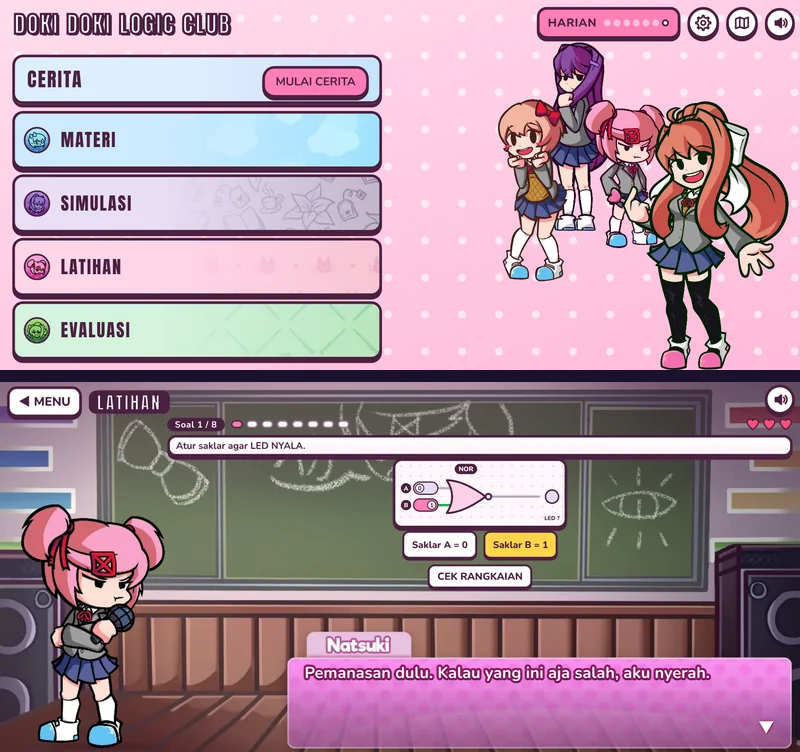
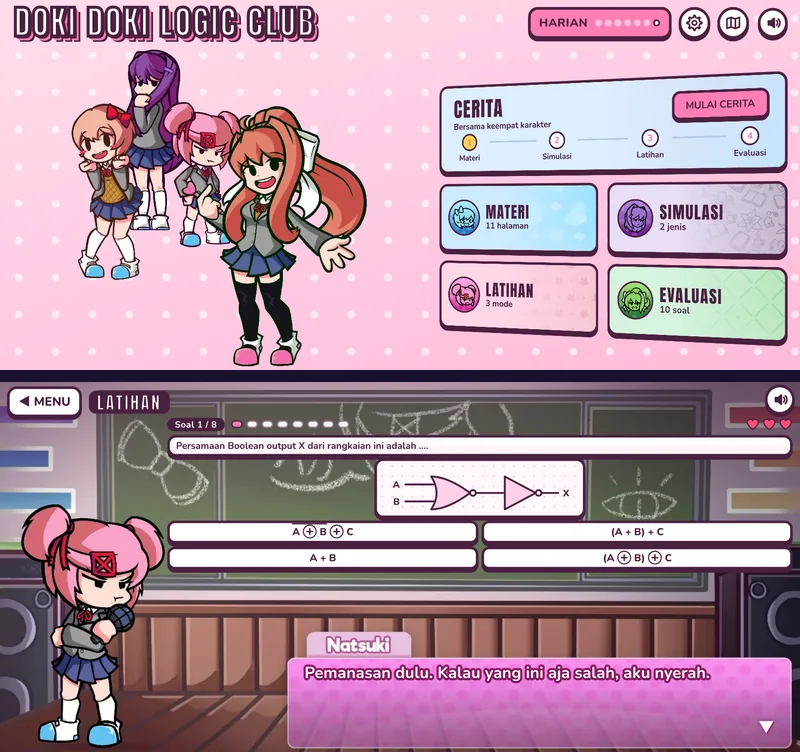
update menu lagii

diff --git a/css/style.css b/css/style.css
@@ -98,16 +98,10 @@ body.m{--pz:.72}
 .m #mute{font-size:15px;right:6px;top:6px}
 /* layar awal */
 .m #start{padding-top:64px}
-.m #start h1,.m .mtitle h1{font-size:44px;-webkit-text-stroke:2px var(--ink);text-shadow:3px 3px 0 var(--ink)}
-
-/* menu utama */
-.m .mtitle{left:16px;top:10px}.m .mtitle h2{margin:4px 0 0}
-.m .mlist{left:16px;width:min(420px,calc(100% - 380px))}
-.m .mbtn{border-radius:12px}
+.m #start h1{font-size:44px;-webkit-text-stroke:2px var(--ink);text-shadow:3px 3px 0 var(--ink)}
 
 
-.m .mchar{right:0;top:0;bottom:0;width:calc(100% - 470px)}
-.m .mchar canvas{width:100%;height:100%;object-fit:contain;object-position:right bottom}
+
 /* kerangka scene: bar atas, karakter, panel, dialog */
 .m .top{left:8px;top:5px;gap:8px}.m .top b{-webkit-text-stroke:1.5px var(--ink);text-shadow:2px 2px 0 var(--ink)}.m .hintc{display:none}
 .m .cw{left:0;bottom:4px;transform:scale(var(--cs));transform-origin:0 100%}
@@ -279,8 +273,6 @@ html{scrollbar-color:var(--pink) transparent}
 .ngo{position:absolute;right:26px;bottom:232px;z-index:7;animation:nudge 1.6s ease-in-out 4}
 @media (prefers-reduced-motion:reduce){.contstory,.ngo{animation:none}}
 /* mobile / Android: tata ulang, bukan sekadar mengecilkan */
-.m .mtitle h1 br{display:none}
-.m .mlist{top:62px;gap:5px}.m .mbtn{padding:2px 12px 2px 36px}.m .mbtn b{font-size:19px;letter-spacing:1.5px}.m .mbtn i{top:8px;left:11px;font-size:15px}
 
 .m .pt{left:3px;top:auto;bottom:4px;width:182px;height:240px;border-width:3px;border-radius:14px;box-shadow:3px 3px 0 var(--ink)}
 .m .pt::after{border-radius:11px;box-shadow:inset 0 0 0 2px #ffffffb0}.m .pn{font-size:16px;left:6px;top:6px;padding:2px 9px 1px}
@@ -322,7 +314,7 @@ body:not(.m) .cw[data-k=sayori]{bottom:10px}
 
 .m .seg .btn{padding:9px 8px;font-size:14px}
 .m .opt{padding:11px 8px}
-.m .mbtn span{font-size:13px}.m .srow small{font-size:13px}.m .qh{font-size:14px}.m .credlink{font-size:13px;padding:6px 12px}
+.m .srow small{font-size:13px}.m .qh{font-size:14px}.m .credlink{font-size:13px;padding:6px 12px}
 .m .nav .btn{min-height:38px}
 
 .m .top .btn.sm{padding:5px 10px;min-height:0}
@@ -388,21 +380,6 @@ body:not(.m) .cw[data-k=sayori]{bottom:10px}
 .mbtn:focus-visible{outline:4px solid var(--blue);outline-offset:3px}
 .mchar{right:23px}.mchar canvas{height:640px}
 .setbtn{right:74px;top:22px}
-/* menu mobile: kartu ringkas satu kolom, grup karakter di tengah bawah */
-.m .mtitle{left:16px;top:52px}.m .mtitle h1{font-size:26px;margin-top:6px;-webkit-text-stroke:1.5px var(--ink);text-shadow:2px 2px 0 var(--ink)}.m .mtitle h2{font-size:13px;margin-top:6px}
-.m .setbtn{left:12px;right:auto;top:8px;font-size:13px}
-.m .mlist{left:14px;right:14px;width:auto;top:118px}
-.m .mstory{margin-bottom:8px}.m .mstory .mbtn{height:112px;padding:10px 14px}.m .mstory .mbtn b{font-size:22px}.m .mstory .mbtn .sub{font-size:11px}
-.m .pbtn{right:12px;top:10px;font-size:12px;padding:6px 12px;border-width:3px;box-shadow:0 3px 0 var(--ink)}.m .mstory.cont .pbtn{right:100px}
-.m .mre{right:16px;bottom:auto;top:13px;font-size:12px;height:36px;padding:0 10px;min-height:0;border-width:3px;box-shadow:0 3px 0 var(--ink)}
-.m .steps{left:14px;right:14px;bottom:6px}.m .st{font-size:9px;min-width:44px}.m .st i{width:22px;height:22px;font-size:11px;border-width:2px}.m .ln{margin-top:10px}
-.m .mgrid{grid-template-columns:1fr;gap:6px}.m .mgrid .mbtn{height:auto;min-height:66px;padding:6px 12px 6px 62px}
-.m .mgrid .mbtn b{font-size:20px;letter-spacing:1.5px}.m .mbtn .sub{font-size:11px}.m .av{left:10px;top:7px;width:42px;height:42px;border-width:2px}
-.m .mbtn{border-width:3px;box-shadow:0 4px 0 var(--ink)}
-.m .mbtn.sel,.m .mbtn:hover{transform:translateY(-2px)}
-.m:not(.p) .mgrid{grid-template-columns:1fr}.m:not(.p) .mstory .mbtn{height:56px}.m:not(.p) .steps,.m:not(.p) .mbtn .sub{display:none}
-.m:not(.p) .mgrid .mbtn{height:38px;padding:3px 10px 3px 52px}.m:not(.p) .av{width:30px;height:30px;top:3px}.m:not(.p) .mlist{top:62px;width:min(420px,calc(100% - 380px));right:auto}
-.m:not(.p) .mtitle{top:8px}.m:not(.p) .setbtn{left:auto;right:46px}
 /* kerangka scene */
 .top b{background:var(--ink);padding:3px 14px 1px;border-radius:10px;-webkit-text-stroke:0;text-shadow:none;letter-spacing:2px;font-size:32px;line-height:1.2}
 .m .top b{font-size:20px;padding:2px 9px 0;border-radius:8px}
@@ -710,7 +687,6 @@ body.m{--cs:.6}
 
 /* v13 polish */
 .m:not(.p) .sim{flex-wrap:nowrap}.m:not(.p) .sim .card{flex:1 1 0;min-width:0}
-.m:not(.p) .mgrid .mbtn,.m:not(.p) .mstory .mbtn{justify-content:center}
 .btn:disabled,.nav button:disabled{cursor:not-allowed}
 
 /* v14 animasi: transisi layar lebih cepat, LED menyala, tombol responsif */
@@ -839,7 +815,7 @@ body.m{--cs:.6}
 
 /* v20: audit desain. Teks HP >= 11px, area tap >= 44px, gerak dekoratif dibatasi */
 .m .xcnt{font-size:11px}.m .xlab{font-size:11px}.m .xmsg{font-size:12px}.m .top #xch{font-size:12px}.m .xpi b{font-size:11px}
-.m:not(.p) .xmsg{font-size:11px}.m:not(.p) .xpi b{font-size:11px}.m .tip,.m .mbtn .sub,.m .chip{font-size:12px}
+.m:not(.p) .xmsg{font-size:11px}.m:not(.p) .xpi b{font-size:11px}.m .tip,.m .chip{font-size:12px}
 .cell,.xlx,.setcard input[type=range]{position:relative}
 .cell::after,.xlx::after{content:"";position:absolute;inset:-8px -4px}
 .m .setcard input[type=range]{margin:14px 0}
@@ -854,8 +830,7 @@ body.m{--cs:.6}
 .m .heart{width:22px;height:22px}
 .mre{transition:transform .16s var(--ease),box-shadow .16s var(--ease),background-color .16s}
 .mstory:has(.mbtn:hover,.mbtn.sel) .mre{transform:translateY(-4px);box-shadow:0 8px 0 var(--ink)}
-.m .mstory:has(.mbtn:hover,.mbtn.sel) .mre{transform:translateY(-2px);box-shadow:0 5px 0 var(--ink)}
-@media (prefers-reduced-motion:reduce){.lives.hit{animation:none}.mstory:has(.mbtn:hover,.mbtn.sel) .mre,.m .mstory:has(.mbtn:hover,.mbtn.sel) .mre{transform:none;box-shadow:0 4px 0 var(--ink)}}
+@media (prefers-reduced-motion:reduce){.lives.hit{animation:none}.mstory:has(.mbtn:hover,.mbtn.sel) .mre{transform:none;box-shadow:0 4px 0 var(--ink)}}
 .m:not(.p) .fcard.p1::after,.m:not(.p) .fcard.p2::after{transform:translate(4px,4px) rotate(.4deg)}.m:not(.p) .fcard.p2::before{transform:translate(-3px,6px) rotate(-.4deg)}
 /* kartu pendek (HP mendatar: panggung hanya 420px): kecilkan isi supaya tidak terpotong */
 .fcard{container-type:size}
@@ -869,7 +844,7 @@ body.m{--cs:.6}
 .m:not(.p) .xtools{flex-wrap:wrap}
 .m:not(.p) .xtools .btn,.m:not(.p) .n3 .xtools .btn{flex:1 1 44%;font-size:10px;letter-spacing:0;padding:3px 2px}
 .m:not(.p) .xtools .btn:last-child{flex-basis:100%}
-.m .chip,.m .tip,.m .xlab,.m .xcnt,.m .xpi b,.m .mbtn .sub,.m .sub,.m .tmr{font-size:13px}
+.m .chip,.m .tip,.m .xlab,.m .xcnt,.m .xpi b,.m .sub,.m .tmr{font-size:13px}
 .m:not(.p) .xpi:not(.xin) b{font-size:11px}
 .m .xpi.xin b{font-size:11px}
 .m:not(.p) .xin b{font-size:10px}
@@ -1185,9 +1160,6 @@ body:not(.m) .mtitle h1{margin-top:-2px}
 body:not(.m) .mchar canvas{height:615px;display:block;margin:0 auto}
 body:not(.m) .mgrid .mbtn{justify-content:center}
 
-/* v46b: rapikan menu utama di HP */
-.m:not(.p) .av{top:50%;translate:0 -50%}
-.m:not(.p) .mchar{top:48px}
 
 /* v48: menu utama. Header satu garis kanan (x=1240 di desktop), Harian beraksen dengan 7 hari terakhir,
    Pengaturan dan Peta berupa ikon, judul lebih besar, kartu dua tingkat teks (judul + satu baris) */
@@ -1212,8 +1184,8 @@ body:not(.m) #stage:has(#menu.on) #mute{right:40px;top:25px}
 .m .hdots{gap:3px}.m .hdots i{width:8px;height:8px}.m .hdots i.now{border-width:2px}
 .m .mtools .ibtn{width:36px;height:36px;padding:0;border-width:3px}.m .ibtn svg{width:20px;height:20px}
 .m .setbtn{top:8px}
-.m:not(.p) #stage:has(#menu.on) #mute{top:9px}
-.m:not(.p) .setbtn{right:48px}
+.m:not(.p) #stage:has(#menu.on) #mute{right:14px;top:9px}
+.m:not(.p) .setbtn{right:58px}
 
 /* v49: karakter menu desktop digeser sekitar 2% ke kanan (26 px) dan 1% ke atas (7 px) dari panggung 1280x720 */
 body:not(.m) .mchar{left:26px;bottom:7px}
@@ -1333,3 +1305,34 @@ body:not(.m) .mchar{left:26px;bottom:7px}
 #fade.soft,#fade.soft.on{clip-path:none;transition:opacity .42s cubic-bezier(.4,0,.2,1)}
 #fade.soft:not(.on){transition-duration:.55s}
 @media (prefers-reduced-motion:reduce){#fade.soft,#fade.soft.on,#fade.soft:not(.on){transition:opacity .01ms}}
+
+/* v62: menu utama HP = tata letak PC. Judul kiri atas, karakter di kiri, kartu Cerita (dengan langkah) dan empat kartu mode di kanan, dimiringkan ke dalam seperti v45.
+   Ukuran px di bawah ini adalah ukuran tampil pada kanvas logis HP (tinggi 420). Daftar digambar 4x lebih besar lalu diperkecil (zoom + scale),
+   alasan sama dengan v48: tekstur perspektif tidak tajam di layar rapat piksel (HP 2x sampai 3x). Daftar selebar 50% layar, tepi kanan 14px sejajar tombol suara.
+   Tepi kiri daftar tampak bergeser kira-kira 13% lebarnya ke kanan karena miring, jadi lebar jatah karakter = 56,25% - 14px. */
+.m .mtitle{left:16px;top:6px}
+.m .mtitle h1{font-size:38px;line-height:1;margin:0;-webkit-text-stroke:2.2px var(--ink);text-shadow:2px 2px 0 var(--ink),4px 4px 0 var(--pink),6px 6px 0 var(--ink)}
+.m .mchar{left:0;right:auto;top:52px;bottom:4px;width:calc(56.25% - 14px)}
+.m .mchar canvas{display:block;width:100%;height:100%;object-fit:contain;object-position:center bottom}
+.m .mlist{left:auto;right:14px;top:56%;width:50%;translate:0 -50%;transform-origin:100% 50%;transform:perspective(600px) rotateY(-10deg);transform-style:preserve-3d}
+@supports (zoom:2) and (translate:0 -50%){.m .mlist{zoom:4;right:3.5px;width:200%;transform:perspective(150px) rotateY(-10deg) scale(.25)}}
+.m .mstory{margin-bottom:13px}
+.m .mbtn{border-width:3px;border-radius:12px;box-shadow:0 4px 0 var(--ink)}
+.m .mbtn b{letter-spacing:1.2px}
+.m .mbtn .sub{font-size:11px}
+.m .mstory .mbtn{height:112px;padding:14px 18px}
+.m .mstory .mbtn b{font-size:26px}
+.m .pbtn{right:18px;top:15px;font-size:12px;border-width:3px;border-radius:10px;padding:6px 14px;box-shadow:0 3px 0 var(--ink)}
+.m .mstory.cont .pbtn{right:98px}
+.m .mstory .mre{right:18px;top:15px;bottom:auto;height:33px;min-height:0;padding:0 14px;font-size:12px;border-width:3px;border-radius:10px;box-shadow:0 3px 0 var(--ink)}
+.m .steps{left:18px;right:18px;bottom:10px}
+.m .st{font-size:10px;min-width:46px;gap:2px}
+.m .st i{width:22px;height:22px;border-width:2px;font-size:11px}
+.m .ln{height:2px;margin:10px 5px 0}
+.m .mgrid{gap:12px}
+.m .mgrid .mbtn{height:86px;padding:8px 8px 8px 64px;justify-content:center}
+.m .mgrid .mbtn b{font-size:20px}
+.m .av{left:10px;top:50%;translate:0 -50%;width:46px;height:46px;border-width:2px}
+.m .mbtn.sel{transform:translate3d(0,-3px,24px);box-shadow:0 7px 0 var(--ink)}
+@media (hover:hover){.m .mbtn:hover{transform:translate3d(0,-3px,24px);box-shadow:0 7px 0 var(--ink)}}
+.m .mstory:has(.mbtn:hover,.mbtn.sel) .mre{transform:translate3d(0,-3px,24px);box-shadow:0 6px 0 var(--ink)}

diff --git a/js/app.js b/js/app.js
@@ -156,7 +156,7 @@ function buildSettings() {
   <div class="setcard">
     <div class="srow"><label>Volume Musik <b id="mvv"></b></label><input type="range" id="mv" min="0" max="100" step="1" aria-label="Volume Musik"></div>
     <div class="srow"><label>Volume Efek Suara <b id="svv"></b></label><input type="range" id="sv" min="0" max="100" step="1" aria-label="Volume Efek Suara"></div>
-    <div class="srow"><label>Mode Tampilan</label><div class="seg" id="sdisp"><button class="btn sm" data-v="window">Jendela</button><button class="btn sm" data-v="full">Desktop Fullscreen</button></div><small id="fsn"></small></div>
+    <div class="srow"><label>Mode Tampilan</label><div class="seg" id="sdisp"><button class="btn sm" data-v="window">Jendela</button><button class="btn sm" data-v="full">Fullscreen</button></div><small id="fsn"></small></div>
     <div class="srow"><label>Tata Letak</label><div class="seg" id="slay"><button class="btn sm" data-v="auto">Otomatis</button><button class="btn sm" data-v="desktop">Desktop</button><button class="btn sm" data-v="mobile">Mobile / Android</button></div><small>Otomatis menyesuaikan ukuran layar. Pilih Mobile / Android untuk tampilan ponsel.</small></div>
     <div class="srow"><label>Panduan dan Aplikasi</label><div class="seg"><button class="btn sm" id="stour">Lihat panduan</button><button class="btn sm" id="sinst" hidden>Pasang di perangkat</button></div><small id="insn"></small></div>
   </div>

diff --git a/README.md b/README.md
@@ -19,7 +19,7 @@ Proyek ini dibuat dengan HTML, CSS, dan JavaScript biasa. Tidak ada framework, d
 
 ## Fitur
 
-Menu utama punya lima bagian belajar (Cerita, Materi, Simulasi, Latihan, Evaluasi), ditambah tombol HARIAN, Peta, Pengaturan, dan suara di bagian atas. Kartu Cerita menampilkan empat langkah belajar beserta kemajuannya dan tombol MULAI CERITA (LANJUTKAN dan ULANG setelah dimulai). Tiap bagian dipandu satu karakter yang bereaksi terhadap jawaban dan perpindahan antarbagian.
+Menu utama punya lima bagian belajar (Cerita, Materi, Simulasi, Latihan, Evaluasi), ditambah tombol HARIAN, Peta, Pengaturan, dan suara di bagian atas. Susunan menu sama di komputer dan di HP: karakter di sebelah kiri, kartu menu di sebelah kanan dengan sedikit kemiringan. Kartu Cerita menampilkan empat langkah belajar beserta kemajuannya dan tombol MULAI CERITA (LANJUTKAN dan ULANG setelah dimulai). Tiap bagian dipandu satu karakter yang bereaksi terhadap jawaban dan perpindahan antarbagian.
 
 | Bagian | Pemandu | Isi |
 |---|---|---|
